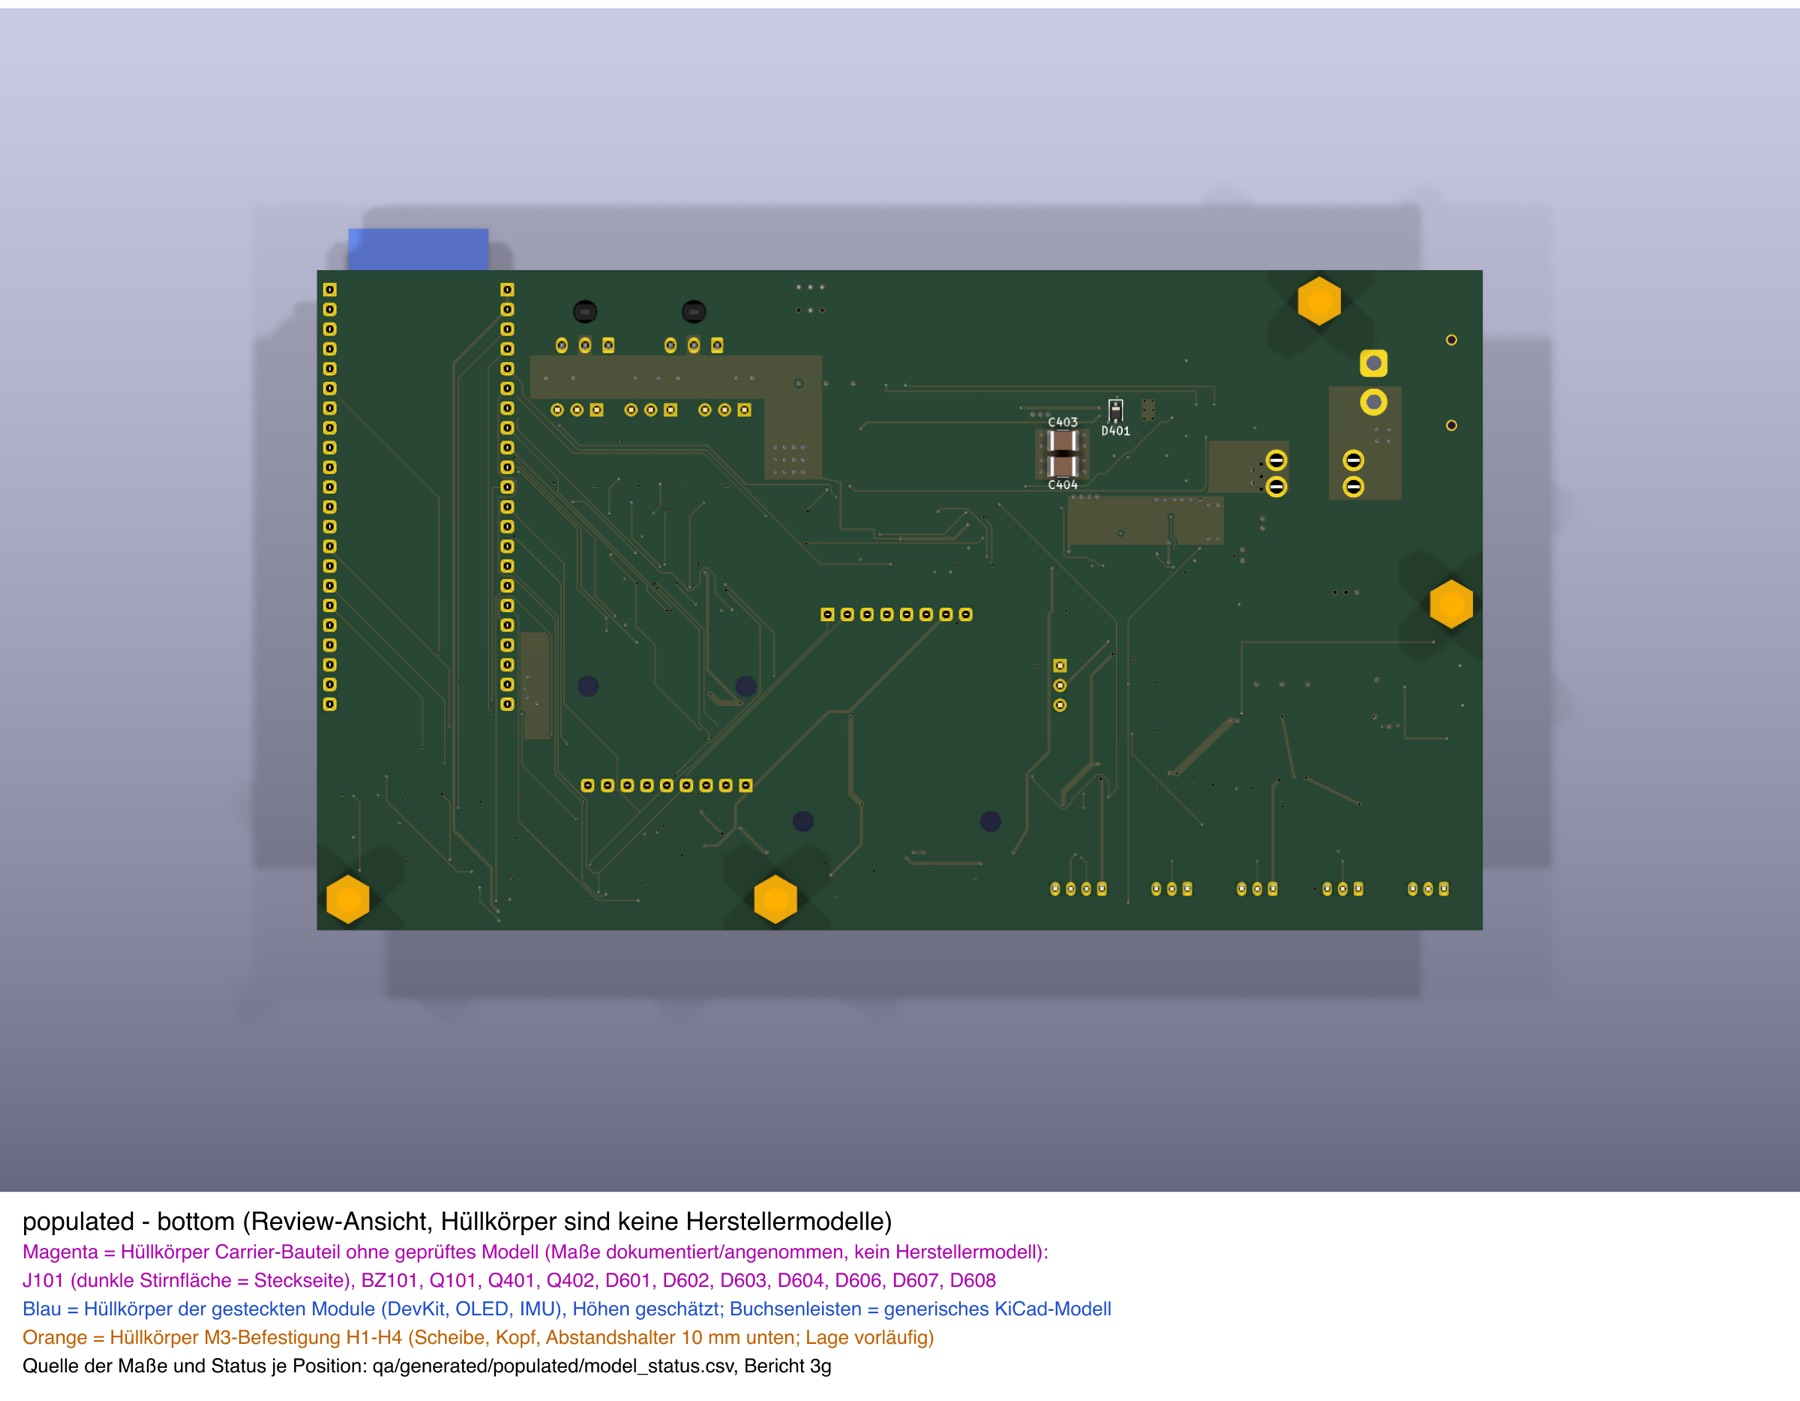
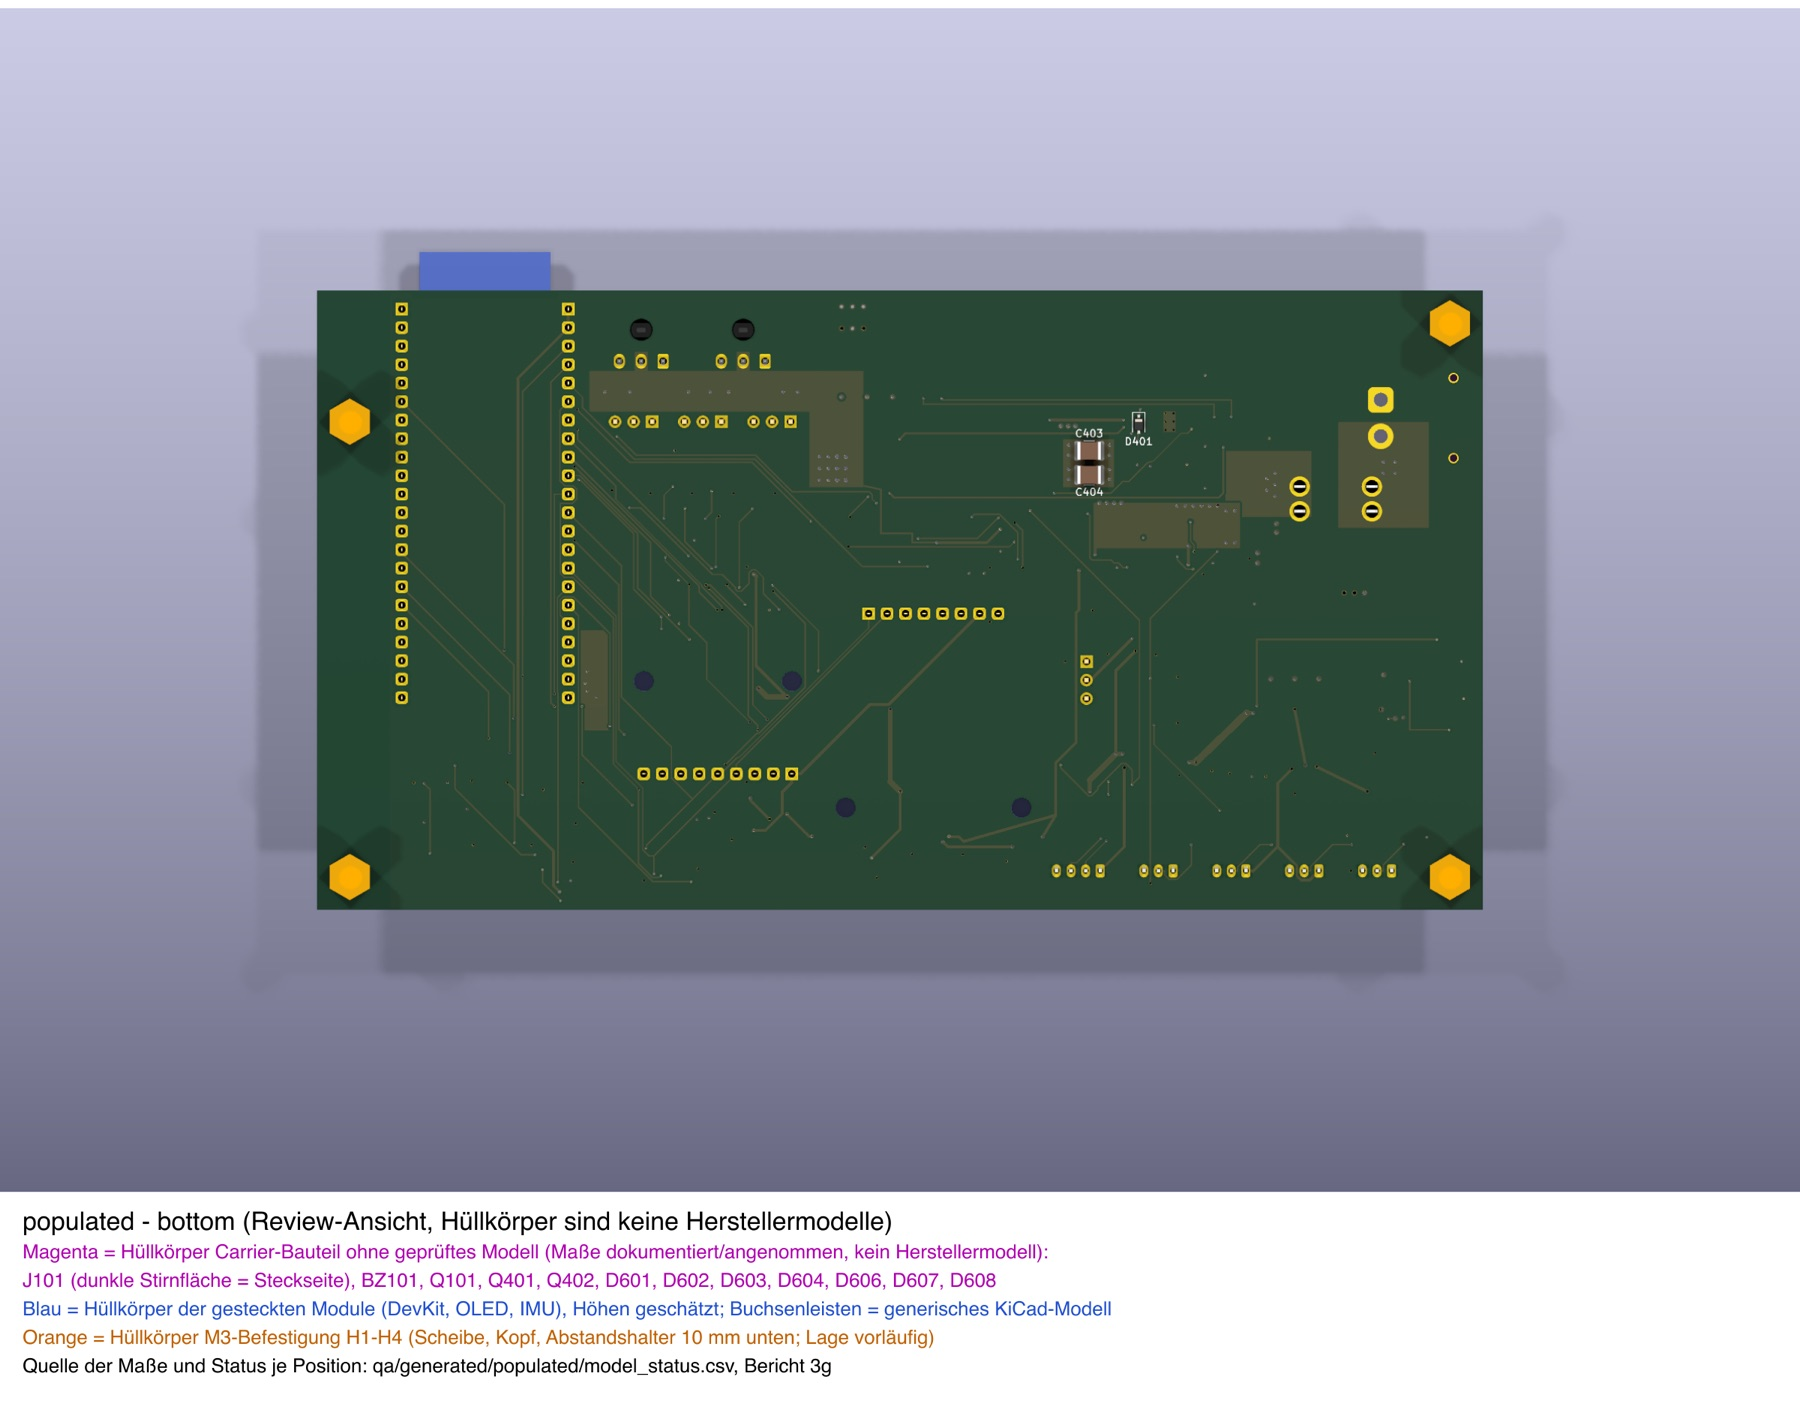
Variant B documented: copper diff, current paths, connector access, antenna distance, DRAFT A2
README, mechanics report and check list updated; images, 1:1 template and Gerber previews
regenerated from the board; rev-A1/A0 DRAFT packages marked superseded.

diff --git a/docs/vcu/rev1-befestigung-vorschlag.md b/docs/vcu/rev1-befestigung-vorschlag.md
@@ -1,6 +1,11 @@
-# Rev 1 / K1: Vorschlag Lochbild (mechanische Überarbeitung)
+# Rev 1: Lochbild Variante B (mechanische Überarbeitung)
 
-Stand 2026-11-18. **Vorschlag, das Board ist nicht geändert.** Die
+> **Umgesetzt 2026-11-18** (`c19a83d`, Prüfung `6c9dafd`): Variante B, Kontur 160 × 85 mm,
+> H1 (4,5 | 4,5), H2 (4,5 | 80,5), **H3 (155,5 | 18,0)**, H4 (155,5 | 80,5). Die Prüfung des
+> Umbaus steht unten im Abschnitt „Umsetzung und Prüfung“. Die Lage bleibt vorläufig bis zum
+> Fahrzeugabgleich; die Fertigung ist gestoppt.
+
+Stand des Vorschlags 2026-11-18 (vor dem Umbau). Damals galt: **Vorschlag, das Board ist nicht geändert.** Die
 Fertigungsvorbereitung ist gestoppt. H1–H4 (Bericht 3n) gelten als
 vorläufiger Entwurf: Sie sitzen dort, wo nach dem Routing noch Platz war,
 nicht dort, wo die Platine mechanisch gestützt werden sollte. Lokale
@@ -97,3 +102,109 @@ Ohne diese Angaben bleibt jedes Lochbild ein Vorschlag:
    - neue Montage-Footprints, Kontur, GND-Flächen.
 4. Danach DRC, Parität, Kupferpfade (`current_map.py`), Fertigungsexport und
    Paketabgleich neu.
+
+
+## Umsetzung und Prüfung (2026-11-18)
+
+Werkzeug: `hardware/scripts/mount_rework_b.py` (prepare, holes, route, cleanup, fill).
+
+**Umbau:**
+- Kontur 160 × 85 mm, ohne Kupfer in der 10-mm-Erweiterung (GND-Innenlagen weiter 0–150 mm).
+- J101 3 mm nach unten. F101 2,4 mm nach unten und 1,4 mm nach links (bei 3 mm hätte sein
+  Courtyard den TVS D101 überlappt); TP101 eigener Platz (9,0 | 27,5).
+- VBAT_IN-Flächen samt 4 Vias und Unterkante der VBAT_FUSED-Flächen mitgeführt.
+- LED-/UART-Reihe J108–J112 ab x 10 mit 1 mm Courtyard-Abstand. R520 (58,5 | 74,9) und
+  TP506 (63,0 | 81,4) versetzt.
+- Leitungsstücke an den verschobenen Teilen (nur bis zum ersten Via, fremden Pad oder Abzweig)
+  entfernt und mit Freerouting neu geführt; alles übrige Kupfer war dabei gesperrt.
+- Beschriftungen auf freie Plätze gesetzt.
+
+**H3 und Antenne:** Espressif empfiehlt in den
+[Hardware Design Guidelines](https://docs.espressif.com/projects/esp-hardware-design-guidelines/en/latest/esp32s3/pcb-layout-design.html)
+für die PCB-Antenne mindestens 15 mm Freiraum „in all directions“ (dort zum Gehäuse); einen
+eigenen Wert für Schrauben nennt das Dokument nicht. Bezug ist die Antennen-Sperrfläche des
+DevKit-Footprints (aus der Espressif-DXF V1.1, WROOM-Überstand 18,0 × 6,31 mm über der
+Oberkante; auf der Platine x 126,9–146,9, y ≤ 1,0). Die Antenne selbst liegt auf dem
+gesteckten DevKit ca. 12,6–15,7 mm über der Platine (Schätzung, 3g). Abstand bis zum
+**nächsten Rand** der Befestigungsteile bei H3 (155,5 | 18,0):
+
+| Teil | in der Ebene | räumlich (zur Antennenhöhe) |
+|---|---|---|
+| Scheibe Ø 7,0 | 15,5 mm | 19,7 mm |
+| Schraubenkopf Ø 5,7 | 16,2 mm | 19,3 mm |
+| Abstandshalter Ø 6,35 (unten) | 15,9 mm | 21,3 mm |
+
+Bei der ersten Lage (155,5 | 16,0) waren es zur Scheibe in der Ebene nur 13,8 mm; deshalb
+y 18. Metallteile des Chassis in der Nähe der Antenne sind damit nicht geprüft (Prüfliste M10).
+
+**Kupfervergleich** (`board_copper_diff.py`, Stand vor dem Umbau `1ef7ba8` gegen den
+Endstand; Bereiche des Umbaus: x 0–40/y 0–40, x 0–72/y 64–85, Erweiterung x 148–160):
+- **Außerhalb der Umbaubereiche: 0 Änderungen.**
+- Entfernt 44 Elemente, alle an den verschobenen Teilen:
+  - Leitungen: +5V_LED, +5V_EXT, EXT_RX/TX, LED_1–4_DIN, LOCK_SUP, OUT_LOCK, VBAT_PROT, GND;
+  - Vias: 1 GND-Via unter dem neuen J109-Pad, 1 VBAT_PROT-Via ohne Anschluss nach der
+    Neuführung, 4 VBAT_IN-Vias, die als verschobene Vias wieder dabei sind.
+- Hinzugefügt 75 Elemente, nur Leitungen dieser Netze, 2 GND-Vias und 1 LED_1_DIN-Via.
+- **Vias gesamt:** 307 vorher, 308 nachher (GND 103 → 104).
+- **Die 75 Vias aus dem fehlerhaften Aufräumlauf** fehlen nicht: Jener Lauf betraf eine
+  Arbeitskopie, die danach aus der Sicherung nach dem Routing wiederhergestellt wurde. Der Endstand
+  ist nach dieser Wiederherstellung entstanden.
+- **52 Splitter beseitigt:** Freerouting hatte außerhalb der Bereiche 52 Leitungssplitter
+  (< 0,1 mm, 51 davon < 0,01 mm) an Pads angefügt. Sie sind entfernt
+  (`remove_import_slivers.py`); die Verbindungen bestanden schon vorher.
+- DRC (alle Schweregrade): 0 Verstöße, 0 offene Verbindungen. Parität PASS.
+
+**Strompfade** (`current_map.py`, gleiche Modell- und Lastannahmen vorher/nachher, DC, 20 °C,
+Schätzung; neue Fälle `vbat_in`, `vbat_fused`):
+
+| Pfad | Last | vorher | nachher |
+|---|---|---|---|
+| VBAT_IN J101 → F101 (Raster 0,1) | 10,1 A | 1,89 mV, max. 1,16 A/mm | 1,48 mV, max. 1,07 A/mm |
+| VBAT_FUSED F101 → Q101 (0,1) | 10,1 A | 2,24 mV, max. 3,00 A/mm | 2,50 mV, max. 2,82 A/mm |
+| VBAT_PROT Q101 → Q401 (0,1) | 9,35 A | 24,2 mV | 24,2 mV |
+| GND-Rückweg J102 / J103 → J101 (0,15, ganze Platine) | 5,1 A je | 11,4 / 12,1 mV | 11,1 / 11,7 mV |
+| +5V_LED U601 → J108–J111 | je 0,08 A | 6,2–9,3 mV | 6,9–8,1 mV |
+| +5V_EXT U602 → J112 | 0,30 A | 5,7 mV | 6,4 mV |
+
+Kein Pfad ist wesentlich schlechter geworden. Eine Erwärmungsrechnung ist das nicht (siehe 3j).
+
+**Steckerzugang:**
+- **J101 XT30:** Der Gegenstecker (XT30-Buchse) steckt von links über die Kante und liegt
+  außerhalb der Platine. Zur Scheibe von H1 bleiben in y gut 3 mm Griffraum. Das Kabel geht
+  nach links. Die 3-mm-Verschiebung ändert die Steckrichtung nicht.
+- **J108–J112 JST PH, senkrecht:** Gegenstecker PHR stecken von oben, Kabel gehen nach oben.
+  Der Abstand zwischen den Leisten-Gehäusen (F.Fab) sinkt von 2,58 auf **1,58 mm**. PH hat keine
+  Verriegelung; der Stecker hält durch Reibung.
+  - Seitlich lässt sich ein Stecker zwischen den Nachbarn kaum greifen.
+  - Ziehen geht an der Vorder- und Rückseite des Steckers (zur Kante bzw. zu den niedrigen
+    ESD-Dioden hin) oder mit Pinzette bzw. Zange am Gehäuse, nicht an den Litzen.
+  - Die Breite der PHR-Stecker konnte ich nicht aus dem JST-Datenblatt bestätigen (jst-mfg.com
+    war nicht abrufbar). Am Muster mit echten Steckern prüfen.
+  - Reicht es nicht, die Reihe weiter nach rechts ziehen; dafür müssen R520, TP506, C512 und
+    D507 lokal weichen.
+- **H2 mit gestecktem J108:** Der Werkzeugfreiraum Ø 11 bleibt frei; der Stecker liegt in der
+  Leistenfläche.
+- **DevKit / USB:** H3 und H4 liegen außerhalb des DevKit-Felds und der USB-Kabelhülle. Bis zum
+  DevKit-Rand sind es ca. 5,6 mm von der Lochachse; ein Schraubendreher geht von oben auch mit
+  gestecktem Modul.
+- **J102/J103, Taster und OLED:** unverändert.
+
+**Nicht automatisch gestrichen: die Auflage unter dem DevKit.** H3/H4 stützen jetzt die rechte
+Seite. Ob die Durchbiegung beim Einstecken klein genug bleibt, zeigt erst der Stecktest
+(Prüfliste M9).
+
+**Unterlagen:** Die Render-Skripte lesen Lochlagen und Kontur aus dem Board (kein eingetragener
+Wert mehr):
+- 1:1-Vorlage `render_mounting_print.py`;
+- bemaßte Draufsicht `render_mounting_drawing.py`;
+- 3D-Bilder `render_populated_review.py`;
+- Lückenkarte `render_placement_review.holes_on_board`.
+
+`mounting_holes.py place` ist stillgelegt, die Suche bleibt.
+
+**Fertigungsdaten:**
+- Neues Paket `manufacturing/releases/generated/rev-A2-DRAFT` (NO-GO), Paketabgleich 0 Fehler:
+  - NPTH 10 = Board;
+  - PTH 417 = Board, innerhalb 0,0005 mm.
+- `rev-A1-DRAFT` und `rev-A0-tooling-DRAFT` sind überholt und mit `SUPERSEDED.txt`
+  gekennzeichnet; nicht verwenden.

diff --git a/README.md b/README.md
@@ -3,9 +3,9 @@
 Modulare VCU-Trägerplatine (Rev 1) für einen RC-Rover: steckbares
 ESP32-S3-DevKitC-1, IMU (Adafruit 4438), OLED (Adafruit 326), geregelte
 Servoschiene, 5-V-Logikversorgung, LED-, Empfänger- und UART-Ausgänge.
-KiCad 10.0.7, 4 Lagen, 150 × 85 mm.
+KiCad 10.0.7, 4 Lagen, 160 × 85 mm (Variante B, vier M3-Eckbohrungen).
 
-**Stand 2026-11-18: Layout geschlossen, DRAFT-Fertigungspaket A1 (NO-GO).**
+**Stand 2026-11-18: Variante B umgesetzt, DRAFT-Paket A2 (NO-GO). Fertigung gestoppt bis zum Fahrzeugabgleich.**
 ERC, DRC und Schaltplan-Parität bestehen im lokalen Lauf. Der
 JLCPCB-Regelsatz im DRC prüft Kupfer, Bohrungen und Texte, aber keine
 Linienbreiten im Bestückungsdruck (bekannte Abweichung, siehe unten). Das ist ein Werkzeugergebnis; elektrische, thermische und
@@ -33,7 +33,8 @@ Quellen stehen in `qa/generated/populated/model_status.csv` und im Bericht
 | ![Mit Modulen, oben](docs/images/populated_top.jpg) | ![Ohne Module, oben](docs/images/without_modules_top.jpg) |
 | ![Flach von vorne](docs/images/populated_front_low.jpg) | ![Unterseite](docs/images/populated_bottom.jpg) |
 
-Befestigung (vorläufig, Bericht 3n): vier M3-Bohrungen, NPTH 3,2 mm; orange in
+Befestigung Variante B ([Bericht](docs/vcu/rev1-befestigung-vorschlag.md)): vier M3-Bohrungen, NPTH 3,2 mm,
+(4,5 | 4,5), (4,5 | 80,5), (155,5 | 18,0), (155,5 | 80,5); vorläufig bis zum Fahrzeugabgleich; orange in
 den 3D-Ansichten = Hüllkörper für Scheibe, Kopf und 10-mm-Abstandshalter.
 
 ![Bemaßte Draufsicht der Befestigungsbohrungen](docs/images/mounting_top.jpg)
@@ -77,12 +78,10 @@ Online: <https://cagricatik.github.io/RoverCore/>
 - Datenblattfelder (44 Teile), 3D-Modelle (14), Bauteilakten.
 - Bestückungsdruck: 1 211 Umrissstriche mit 0,12 mm im exportierten Gerber
   (JLCPCB verlangt 0,15 mm); Entscheidung offen (Bericht 3l).
-- **Befestigung wird überarbeitet:** H1–H4 sind nur ein vorläufiger Entwurf; Vorschlag
-  für ein Lochbild an den vier Ecken in [rev1-befestigung-vorschlag.md](docs/vcu/rev1-befestigung-vorschlag.md)
-  (Variantenwahl und Chassismaße offen). Fertigungsvorbereitung gestoppt.
-- Bisher: vier M3-NPTH-Bohrungen H1–H4 gesetzt, Lage **vorläufig** (keine
-  Chassismaße); vor der Fertigung am Fahrzeug abgleichen
-  ([Prüfliste](docs/vcu/rev1-mechanik-abgleich.md)), Auflage unter dem DevKit vorsehen.
+- **Befestigung Variante B umgesetzt** (Kontur 160 × 85, vier Eckbohrungen); offen ist der
+  Abgleich am Fahrzeug mit der 1:1-Vorlage ([Prüfliste](docs/vcu/rev1-mechanik-abgleich.md)) und der
+  Stecktest am DevKit (ob die Auflage unter dem DevKit nötig ist). Ergebnisse der Prüfung des Umbaus
+  in [rev1-befestigung-vorschlag.md](docs/vcu/rev1-befestigung-vorschlag.md).
 - Bohrdateien: `kit export` liefert getrennt `RoverCore-PTH.drl` und
   `RoverCore-NPTH.drl`; beide hochladen und die 10 NPTH-Löcher in der
   Fertiger-Vorschau prüfen (Bericht 3n).
@@ -118,8 +117,8 @@ Prüfung eines DRAFT-Pakets gegen das Board und Gerber-Vorschau:
 
 ```sh
 /Applications/KiCad/KiCad.app/Contents/Frameworks/Python.framework/Versions/Current/bin/python3 \
-  hardware/scripts/fab_package_check.py RoverCore.kicad_pcb manufacturing/releases/generated/rev-A1-DRAFT
-python3 -I hardware/scripts/gerber_preview.py manufacturing/releases/generated/rev-A1-DRAFT qa/generated/fab
+  hardware/scripts/fab_package_check.py RoverCore.kicad_pcb manufacturing/releases/generated/rev-A2-DRAFT
+python3 -I hardware/scripts/gerber_preview.py manufacturing/releases/generated/rev-A2-DRAFT qa/generated/fab
 ```
 
 Die Werkzeuge sind aus PCB-Project-Template 2.0.0 übernommen; Herkunft,

diff --git a/hardware/mechanical/README.md b/hardware/mechanical/README.md
@@ -4,10 +4,17 @@ Enclosure CAD, mounting patterns, height restrictions, connectors, keep-outs,
 bolts, center-of-mass and assembly clearances. Keep real source CAD plus the
 corresponding export(s) when redistribution rights permit.
 
-## RoverCore K1 mounting (provisional, 2026-11-18)
+## RoverCore mounting (SUPERSEDED first draft, 2026-11-18)
 
 No chassis or enclosure data yet. Four M3 holes, NPTH 3.2 mm, footprint
 `ProjectFootprints:MountingHole_3.2mm_M3_NPTH_Keepout`, positions in K1 coordinates (top-left outline corner,
 y down, board 150 x 85 mm): H1 (21.0 | 4.0), H2 (4.0 | 43.0), H3 (91.0 | 81.0), H4 (146.0 | 81.0).
 Criteria and search: `hardware/scripts/mounting_holes.py`; report section 3n. Confirm against the vehicle before
 fabrication; the DevKit field top right has no support of its own.
+
+## RoverCore mounting, variant B (current, provisional until the vehicle check)
+
+Outline 160 x 85 mm. Four M3 holes, NPTH 3.2 mm (footprint `MountingHole_3.2mm_M3_NPTH_Keepout`), K1 coordinates:
+H1 (4.5 | 4.5), H2 (4.5 | 80.5), H3 (155.5 | 18.0), H4 (155.5 | 80.5). H3 sits 18 mm down so that washer, head
+and standoff stay >= 15 mm (in plane) from the DevKit antenna keep-out. Set by `hardware/scripts/mount_rework_b.py`;
+review in `docs/vcu/rev1-befestigung-vorschlag.md`.

diff --git a/docs/vcu/rev1-mechanik-abgleich.md b/docs/vcu/rev1-mechanik-abgleich.md
@@ -1,11 +1,12 @@
 # Rev 1 / K1: Mechanischer Abgleich am Fahrzeug
 
-> **Überholt durch die mechanische Überarbeitung:** H1–H4 sind nur ein
-> vorläufiger Entwurf. Das neue Lochbild steht im
-> [Vorschlag](rev1-befestigung-vorschlag.md); die Prüfliste unten gilt
-> sinngemäß für das neue Lochbild.
+> **Gilt für Variante B** (Kontur 160 × 85 mm, H1 (4,5 | 4,5), H2 (4,5 | 80,5), H3 (155,5 | 18,0),
+> H4 (155,5 | 80,5); [Umsetzung und Prüfung](rev1-befestigung-vorschlag.md)). Die 1:1-Vorlage liest
+> Kontur und Löcher aus dem Board. Lochabstände der Mitten: H1–H2 76,0, H3–H4 62,5, H2–H4 151,0,
+> H1–H3 151,6 mm. Die Auflage unter dem DevKit bleibt im Plan, bis der Stecktest (M9) zeigt, ob die
+> rechten Bohrungen genügen.
 
-Stand 2026-11-18. Die Befestigung H1–H4 ist **vorläufig** (Bericht
+Stand 2026-11-18. Die Befestigung ist **vorläufig** (Bericht
 [3n](rev1-platzierung.md)). Gefunden wurden die Positionen unter den dort
 gewählten Abstandsregeln und ohne Umrouten. Ob sie zur Fahrzeugbefestigung
 passen, ist offen. Eine bestandene DRC ersetzt diesen Abgleich nicht.

diff --git a/docs/vcu/rev1-platzierung.md b/docs/vcu/rev1-platzierung.md
@@ -1378,7 +1378,9 @@ Ergebnis:
 
 ## 3n. Befestigungsbohrungen H1–H4 (Stand 2026-11-18, Lage vorläufig)
 
-> **Stand nach Owner-Review 2026-11-18:** H1–H4 sind ein vorläufiger Entwurf.
+> **Ersetzt 2026-11-18 durch Variante B** (160 × 85 mm, vier Eckbohrungen, [Umsetzung und Prüfung](rev1-befestigung-vorschlag.md)). Der folgende Abschnitt beschreibt den überholten ersten Entwurf.
+>
+> Stand nach Owner-Review 2026-11-18: H1–H4 waren ein vorläufiger Entwurf.
 > Sie wurden nachträglich in freie Stellen gesetzt; das ist kein
 > Befestigungskonzept. Die Fertigungsvorbereitung ist gestoppt. Ein neues
 > Lochbild nahe den vier Ecken, mit lokalen Platzierungs- und

diff --git a/manufacturing/README.md b/manufacturing/README.md
@@ -7,3 +7,9 @@ applicable, build notes, source commit and SHA-256 manifests.
 
 Do not edit exported Gerber/drill files manually. Use KiCad output jobs or
 KiCad CLI to regenerate from approved design.
+
+## RoverCore status (2026-11-18)
+
+Current DRAFT package: `releases/generated/rev-A2-DRAFT` (variant B, 160 x 85 mm, NO-GO). `rev-A1-DRAFT` and
+`rev-A0-tooling-DRAFT` are superseded (marked with `SUPERSEDED.txt`); do not upload them. Fabrication stays stopped
+until the vehicle check and the open reviews are done.
